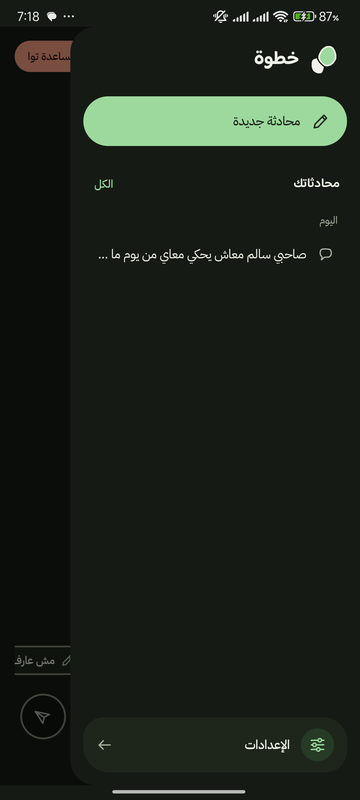
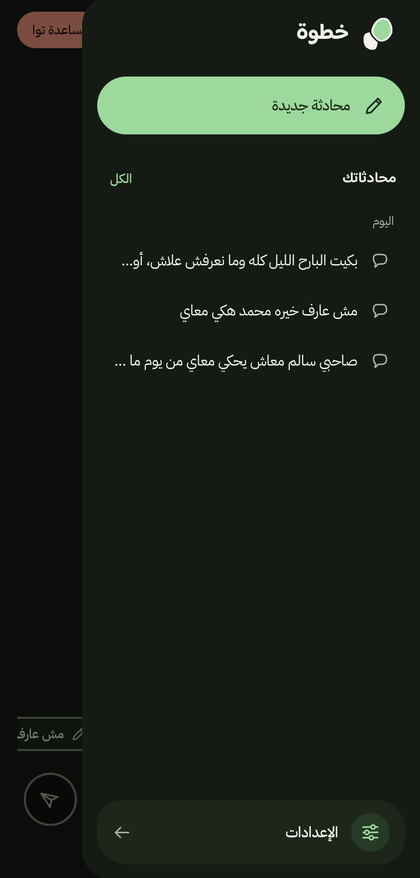
docs: fresh screenshots without the status bar: welcome, receipt, support options, urgent screen, drawer, saved chats
Claude-Session: https://claude.ai/code/session_01V2qc4zJUYkYNaf8nPQi2P8

diff --git a/README.md b/README.md
@@ -10,10 +10,14 @@ Built for the AI4LY Codathon: Mental Health in Libya. Final pitch: 8 October 202
 > Khutwa is not a therapist, a diagnostic tool or an emergency service.
 
 <p align="center">
-  <img src="docs/media/app/welcome.png" width="200" alt="A new chat: a doodle and a welcome line for the time of day">
-  <img src="docs/media/app/chat.png" width="200" alt="A conversation with the redaction receipt and a Khutwa stone">
-  <img src="docs/media/app/drawer.png" width="200" alt="The drawer with saved chats and settings">
-  <img src="docs/media/app/saved-chats.png" width="200" alt="Settings: saved chats and memory, off by default">
+  <img src="docs/media/app/welcome.png" width="250" alt="A new chat: a doodle and a welcome line for the time of day">
+  <img src="docs/media/app/chat.png" width="250" alt="A conversation with the receipt showing what left the phone: the name became [اسم1]">
+  <img src="docs/media/app/support-options.png" width="250" alt="People the user could talk to, each with a reason and a drafted message they send themselves">
+</p>
+<p align="center">
+  <img src="docs/media/app/urgent.png" width="250" alt="The fixed urgent-help screen, which works offline">
+  <img src="docs/media/app/drawer.png" width="250" alt="The drawer with saved chats and settings">
+  <img src="docs/media/app/saved-chats.png" width="250" alt="Settings: saved chats and the notes Khutwa keeps, off by default and erasable">
 </p>
 
 ## How it works
